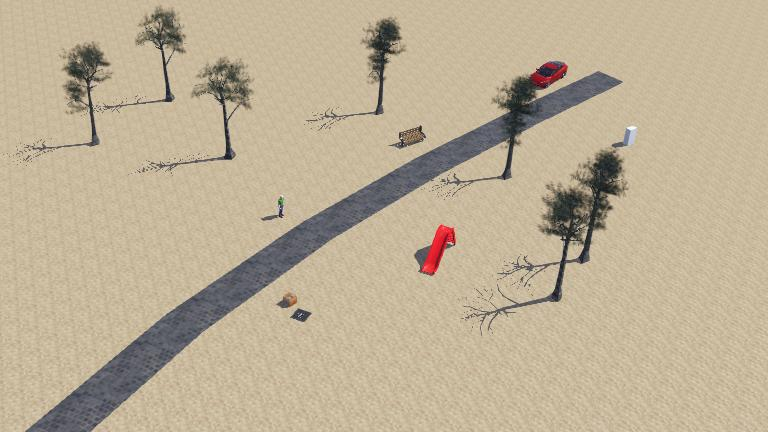
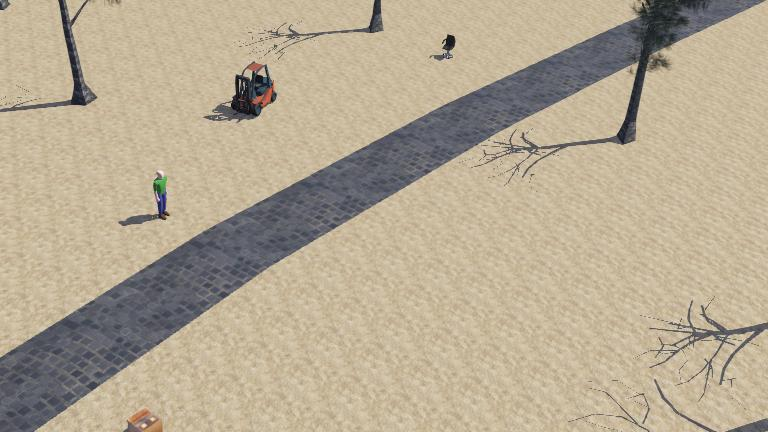
Automated Flying completed

diff --git a/sim-webot/mavic/controllers/mavic2pro_python/mavic2pro_python.py b/sim-webot/mavic/controllers/mavic2pro_python/mavic2pro_python.py
@@ -111,14 +111,9 @@ WORLD_OBJECTS = {
         'position': {'x': -41.5139, 'y': 4.34169, 'z': 0.31},
         'rotation': {'x': 0, 'y': 0, 'z': 1, 'angle': -0.2618053071795865}
     },
-    'bench': {
-        'type': 'Bench',
-        'position': {'x': -23.255, 'y': -2.62401, 'z': 0},
-        'rotation': {'x': 0, 'y': 0, 'z': 1, 'angle': 1.0472}
-    },
-    'slide': {
-        'type': 'Slide',
-        'position': {'x': -11.29, 'y': 5.63, 'z': 0},
+    'chair': {
+        'type': 'OfficeChair',
+        'position': {'x': -25.44, 'y': -2.95, 'z': 0},
         'rotation': {'x': 0, 'y': 0, 'z': 1, 'angle': 0}
     },
     'human': {
@@ -139,6 +134,11 @@ WORLD_OBJECTS = {
     'manhole': {
         'type': 'SquareManhole',
         'position': {'x': 0, 'y': 0, 'z': -0.03},
+        'rotation': {'x': 0, 'y': 0, 'z': 1, 'angle': 0}
+    },
+    'forklift': {
+        'type': 'Forklift',
+        'position': {'x': -17.03, 'y': -8.12, 'z': 0.81},
         'rotation': {'x': 0, 'y': 0, 'z': 1, 'angle': 0}
     }
 }
@@ -527,6 +527,8 @@ class Mavic2ProROS2Controller(Robot):
         self.autonomous_mode = False
         self.navigation_target = None  # Legacy delta-based (deprecated)
         self.object_absolute_position = None  # World position of target object
+        self.navigation_state = 'IDLE'  # States: IDLE, SEARCHING, FACING, NAVIGATING
+        self.target_locked = False  # True once coordinates received
 
         self.joystick_yaw = 0
         self.joystick_pitch = 0
@@ -753,6 +755,25 @@ class Mavic2ProROS2Controller(Robot):
         except Exception as e:
             print(f"[HUD] Failed to send HUD message: {e}")
 
+    def poll_autonomous_mode_trigger(self):
+        """Check if autonomous mode should be enabled via voice command"""
+        try:
+            response = requests.get(
+                f"{CONFIG['HUB_URL']}/api/autonomous_mode_trigger",
+                timeout=0.01
+            )
+            if response.status_code == 200:
+                data = response.json()
+                if data.get('trigger', False):
+                    self.autonomous_mode = True
+                    self.navigation_state = 'SEARCHING'
+                    self.target_locked = False
+                    print("[AUTONOMOUS MODE: ENABLED via voice command - SEARCHING]")
+                    # Clear the trigger
+                    requests.post(f"{CONFIG['HUB_URL']}/api/clear_autonomous_trigger", timeout=0.01)
+        except:
+            pass
+
     def poll_navigation_target(self):
         """Poll hub for object absolute position from AI"""
         try:
@@ -763,11 +784,29 @@ class Mavic2ProROS2Controller(Robot):
             if response.status_code == 200:
                 data = response.json()
                 if data.get('has_position') and data.get('object_position'):
+                    new_object = data['object_name']
+
+                    # If object changed, clear old position and unlock target
+                    if self.global_object and new_object != self.global_object:
+                        print(f"[AUTO] Object changed from '{self.global_object}' to '{new_object}' - resetting")
+                        self.object_absolute_position = None
+                        self.target_locked = False
+                        self.navigation_state = 'SEARCHING'
+
+                    # Track when coordinates are first received
+                    if not self.target_locked:
+                        self.target_locked = True
+                        self.navigation_state = 'FACING'
+                        print(f"[AUTO] Target locked at position: {data['object_position']}")
+
                     self.object_absolute_position = data['object_position']
                     self.global_intent = data['intent']
-                    self.global_object = data['object_name']
+                    self.global_object = new_object
                 else:
-                    self.object_absolute_position = None
+                    # Only clear position if we haven't locked target yet
+                    if not self.target_locked:
+                        self.object_absolute_position = None
+                    # If target_locked = True, keep the coordinates even if detection fails
         except:
             pass
 
@@ -805,12 +844,34 @@ class Mavic2ProROS2Controller(Robot):
             pass
 
     def get_navigation_disturbances(self):
-        """Calculate yaw/pitch/roll from object absolute position using simultaneous PIDs"""
-        if not self.autonomous_mode or not self.object_absolute_position:
+        """
+        State machine for autonomous navigation:
+        - SEARCHING: Rotate slowly until object detected and coordinates received
+        - FACING: Yaw to face object within 3 degrees
+        - NAVIGATING: Normal PID navigation to target
+        """
+        if not self.autonomous_mode:
             return 0.0, 0.0, 0.0
 
         import math
 
+        # STATE 1: SEARCHING - No coordinates yet, slowly rotate to find object
+        if self.navigation_state == 'SEARCHING':
+            if not self.object_absolute_position:
+                # Slowly yaw left until object is detected and coordinates calculated
+                print("[AUTO] SEARCHING for object...")
+                return -0.3, 0.0, 0.0
+            else:
+                # Coordinates received, transition to FACING
+                self.navigation_state = 'FACING'
+                self.target_locked = True
+                print("[AUTO] Target found! Transitioning to FACING mode")
+
+        # From here on, we ALWAYS have object_absolute_position (locked target)
+        if not self.object_absolute_position:
+            return 0.0, 0.0, 0.0
+
+        # Calculate relative position to object
         obj_x = self.object_absolute_position['x']
         obj_y = self.object_absolute_position['y']
 
@@ -821,9 +882,15 @@ class Mavic2ProROS2Controller(Robot):
         world_dx = obj_x - drone_x
         world_dy = obj_y - drone_y
 
+        # Transform to drone frame
         delta_x = world_dx * math.cos(drone_yaw) + world_dy * math.sin(drone_yaw)
         delta_y = -world_dx * math.sin(drone_yaw) + world_dy * math.cos(drone_yaw)
 
+        # Calculate heading error
+        heading_error_rad = math.atan2(delta_y, delta_x)
+        heading_error_deg = math.degrees(heading_error_rad)
+
+        # Get controller inputs
         world_vx = self.state.velocity['x']
         world_vy = self.state.velocity['y']
         velocity_x = world_vx * math.cos(drone_yaw) + world_vy * math.sin(drone_yaw)
@@ -837,24 +904,41 @@ class Mavic2ProROS2Controller(Robot):
         yaw_velocity = self.state.angular_velocity['yaw']
         dt = self.time_step / 1000.0
 
-        distance = math.sqrt(delta_x**2 + delta_y**2)
-        velocity_magnitude = math.sqrt(velocity_x**2 + velocity_y**2)
-        heading_error_deg = math.degrees(math.atan2(delta_y, delta_x))
+        # STATE 2: FACING - Object in view but not facing, yaw only (no movement)
+        if self.navigation_state == 'FACING':
+            if abs(heading_error_deg) > 3.0:
+                # Still turning to face object
+                yaw_disturbance = self.yaw_controller.update(delta_x, delta_y, yaw_velocity, dt)
+                print(f"[AUTO] FACING object... heading error: {heading_error_deg:+.1f} deg")
+                return yaw_disturbance, 0.0, 0.0
+            else:
+                # Now facing object, transition to NAVIGATING
+                self.navigation_state = 'NAVIGATING'
+                print("[AUTO] Object facing! Transitioning to NAVIGATING mode")
 
-        yaw_disturbance = self.yaw_controller.update(delta_x, delta_y, yaw_velocity, dt)
-        pitch_disturbance, roll_disturbance, at_target = self.movement_controller.update(
-            delta_x, delta_y, velocity_x, velocity_y, accel_magnitude, dt
-        )
+        # STATE 3: NAVIGATING - Normal PID navigation (existing behavior)
+        if self.navigation_state == 'NAVIGATING':
+            distance = math.sqrt(delta_x**2 + delta_y**2)
+            velocity_magnitude = math.sqrt(velocity_x**2 + velocity_y**2)
 
-        if at_target:
-            print(f"[AUTO] Arrived at target!")
-            self.autonomous_mode = False
-            # Send message to Flask HUD endpoint
-            self.update_hud_message("Arrived at target!")        
-        else:
-            print(f"[AUTO] Dist: {distance:.2f}m, Heading: {heading_error_deg:+.1f}deg, Vel: {velocity_magnitude:.2f}m/s")
+            yaw_disturbance = self.yaw_controller.update(delta_x, delta_y, yaw_velocity, dt)
+            pitch_disturbance, roll_disturbance, at_target = self.movement_controller.update(
+                delta_x, delta_y, velocity_x, velocity_y, accel_magnitude, dt
+            )
 
-        return yaw_disturbance, pitch_disturbance, roll_disturbance
+            if at_target:
+                print(f"[AUTO] Arrived at target!")
+                self.autonomous_mode = False
+                self.navigation_state = 'IDLE'
+                self.target_locked = False
+                self.update_hud_message("Arrived at target!")
+            else:
+                print(f"[AUTO] NAVIGATING - Dist: {distance:.2f}m, Heading: {heading_error_deg:+.1f}deg, Vel: {velocity_magnitude:.2f}m/s")
+
+            return yaw_disturbance, pitch_disturbance, roll_disturbance
+
+        # Default: no disturbances
+        return 0.0, 0.0, 0.0
 
     def run(self):
         print("=" * 60)
@@ -1028,9 +1112,14 @@ class Mavic2ProROS2Controller(Robot):
                     self.land()
                 elif key == ord('A'):
                     self.autonomous_mode = True
-                    print(f"[AUTONOMOUS MODE: ENABLED]")
+                    self.navigation_state = 'SEARCHING'
+                    self.target_locked = False
+                    print(f"[AUTONOMOUS MODE: ENABLED - SEARCHING]")
                 elif key == ord('X'):
                     self.autonomous_mode = False
+                    self.navigation_state = 'IDLE'
+                    self.target_locked = False
+                    self.object_absolute_position = None
                     print(f"[AUTONOMOUS MODE: DISABLED]")
 
                 key = self.keyboard.getKey()
@@ -1066,7 +1155,7 @@ class Mavic2ProROS2Controller(Robot):
                 
 
             # Override with autonomous navigation if active
-            if self.autonomous_mode and self.object_absolute_position and self.global_intent.lower() == 'go':
+            if self.autonomous_mode and self.global_intent.lower() == 'go':
                 self.target_yaw_disturbance = nav_yaw
                 self.target_pitch_disturbance = nav_pitch
                 self.target_roll_disturbance = nav_roll
@@ -1164,6 +1253,7 @@ class Mavic2ProROS2Controller(Robot):
 
             # Poll navigation target from hub (10Hz)
             if (time_now - last_nav_poll_time) >= nav_poll_interval:
+                self.poll_autonomous_mode_trigger()
                 self.poll_navigation_target()
                 last_nav_poll_time = time_now
 

diff --git a/nimbus-hub/hub.py b/nimbus-hub/hub.py
@@ -54,6 +54,7 @@ def init_shared_state():
     shared_state['video_frame'] = None
     shared_state['processing_fps'] = 0.0
     shared_state['detection_count'] = 0
+    shared_state['autonomous_mode_trigger'] = False
 
     # AI configuration
     shared_state['global_get_dist'] = 1  # Depth detection enabled by default
@@ -318,6 +319,30 @@ def send_control_command():
         return {'status': 'ok'}, 200
     except Exception as e:
         logger.error(f"Send control command error: {e}")
+        return {'status': 'error', 'message': str(e)}, 500
+
+@app.route('/api/autonomous_mode_trigger', methods=['GET'])
+def get_autonomous_mode_trigger():
+    """Check if autonomous mode should be enabled via voice command"""
+    try:
+        if shared_state:
+            return {'trigger': shared_state.get('autonomous_mode_trigger', False)}, 200
+        return {'trigger': False}, 200
+    except Exception as e:
+        logger.error(f"Get autonomous mode trigger error: {e}")
+        return {'status': 'error', 'message': str(e)}, 500
+
+@app.route('/api/clear_autonomous_trigger', methods=['POST'])
+def clear_autonomous_trigger():
+    """Clear the autonomous mode trigger flag"""
+    try:
+        if shared_state:
+            shared_state['autonomous_mode_trigger'] = False
+            logger.info("Autonomous mode trigger cleared")
+            return {'status': 'ok'}, 200
+        return {'status': 'error', 'message': 'Shared state not initialized'}, 500
+    except Exception as e:
+        logger.error(f"Clear autonomous trigger error: {e}")
         return {'status': 'error', 'message': str(e)}, 500
 
 # ============================================================================

diff --git a/nimbus-ai/app.py b/nimbus-ai/app.py
@@ -170,8 +170,11 @@ def run_ai_worker(shared_state):
                                 worker_config['GLOBAL_INTENT'] = result['intent']
                                 shared_state['global_intent'] = result['intent']
                                 if result['intent'].lower() == 'go':
+                                    # Clear old position before calculating new one
+                                    shared_state['object_absolute_position'] = None
                                     shared_state['calculate_position_trigger'] = True
-                                    logger.info("Position calculation trigger SET (intent='go')")
+                                    shared_state['autonomous_mode_trigger'] = True
+                                    logger.info("Position cleared + calculation trigger SET + autonomous trigger SET (intent='go')")
                                 elif result['intent'].lower() == 'home':
                                     shared_state['object_absolute_position'] = {'x': 0.0, 'y': 0.0, 'z': 0.0}
                                     shared_state['global_object'] = ''

diff --git a/nimbus-ai/services/audio_service.py b/nimbus-ai/services/audio_service.py
@@ -135,8 +135,11 @@ class AudioService:
                             self.app.shared_state['global_intent'] = result['intent']
                             # Trigger object position calculation if intent is 'go'
                             if result['intent'].lower() == 'go':
+                                # Clear old position before calculating new one
+                                self.app.shared_state['object_absolute_position'] = None
                                 self.app.shared_state['calculate_position_trigger'] = True
-                                logger.info("Position calculation trigger SET (intent='go')")
+                                self.app.shared_state['autonomous_mode_trigger'] = True
+                                logger.info("Position cleared + calculation trigger SET + autonomous trigger SET (intent='go')")
                             # Set home position directly if intent is 'home'
                             elif result['intent'].lower() == 'home':
                                 self.app.shared_state['object_absolute_position'] = {'x': 0.0, 'y': 0.0, 'z': 0.0}
